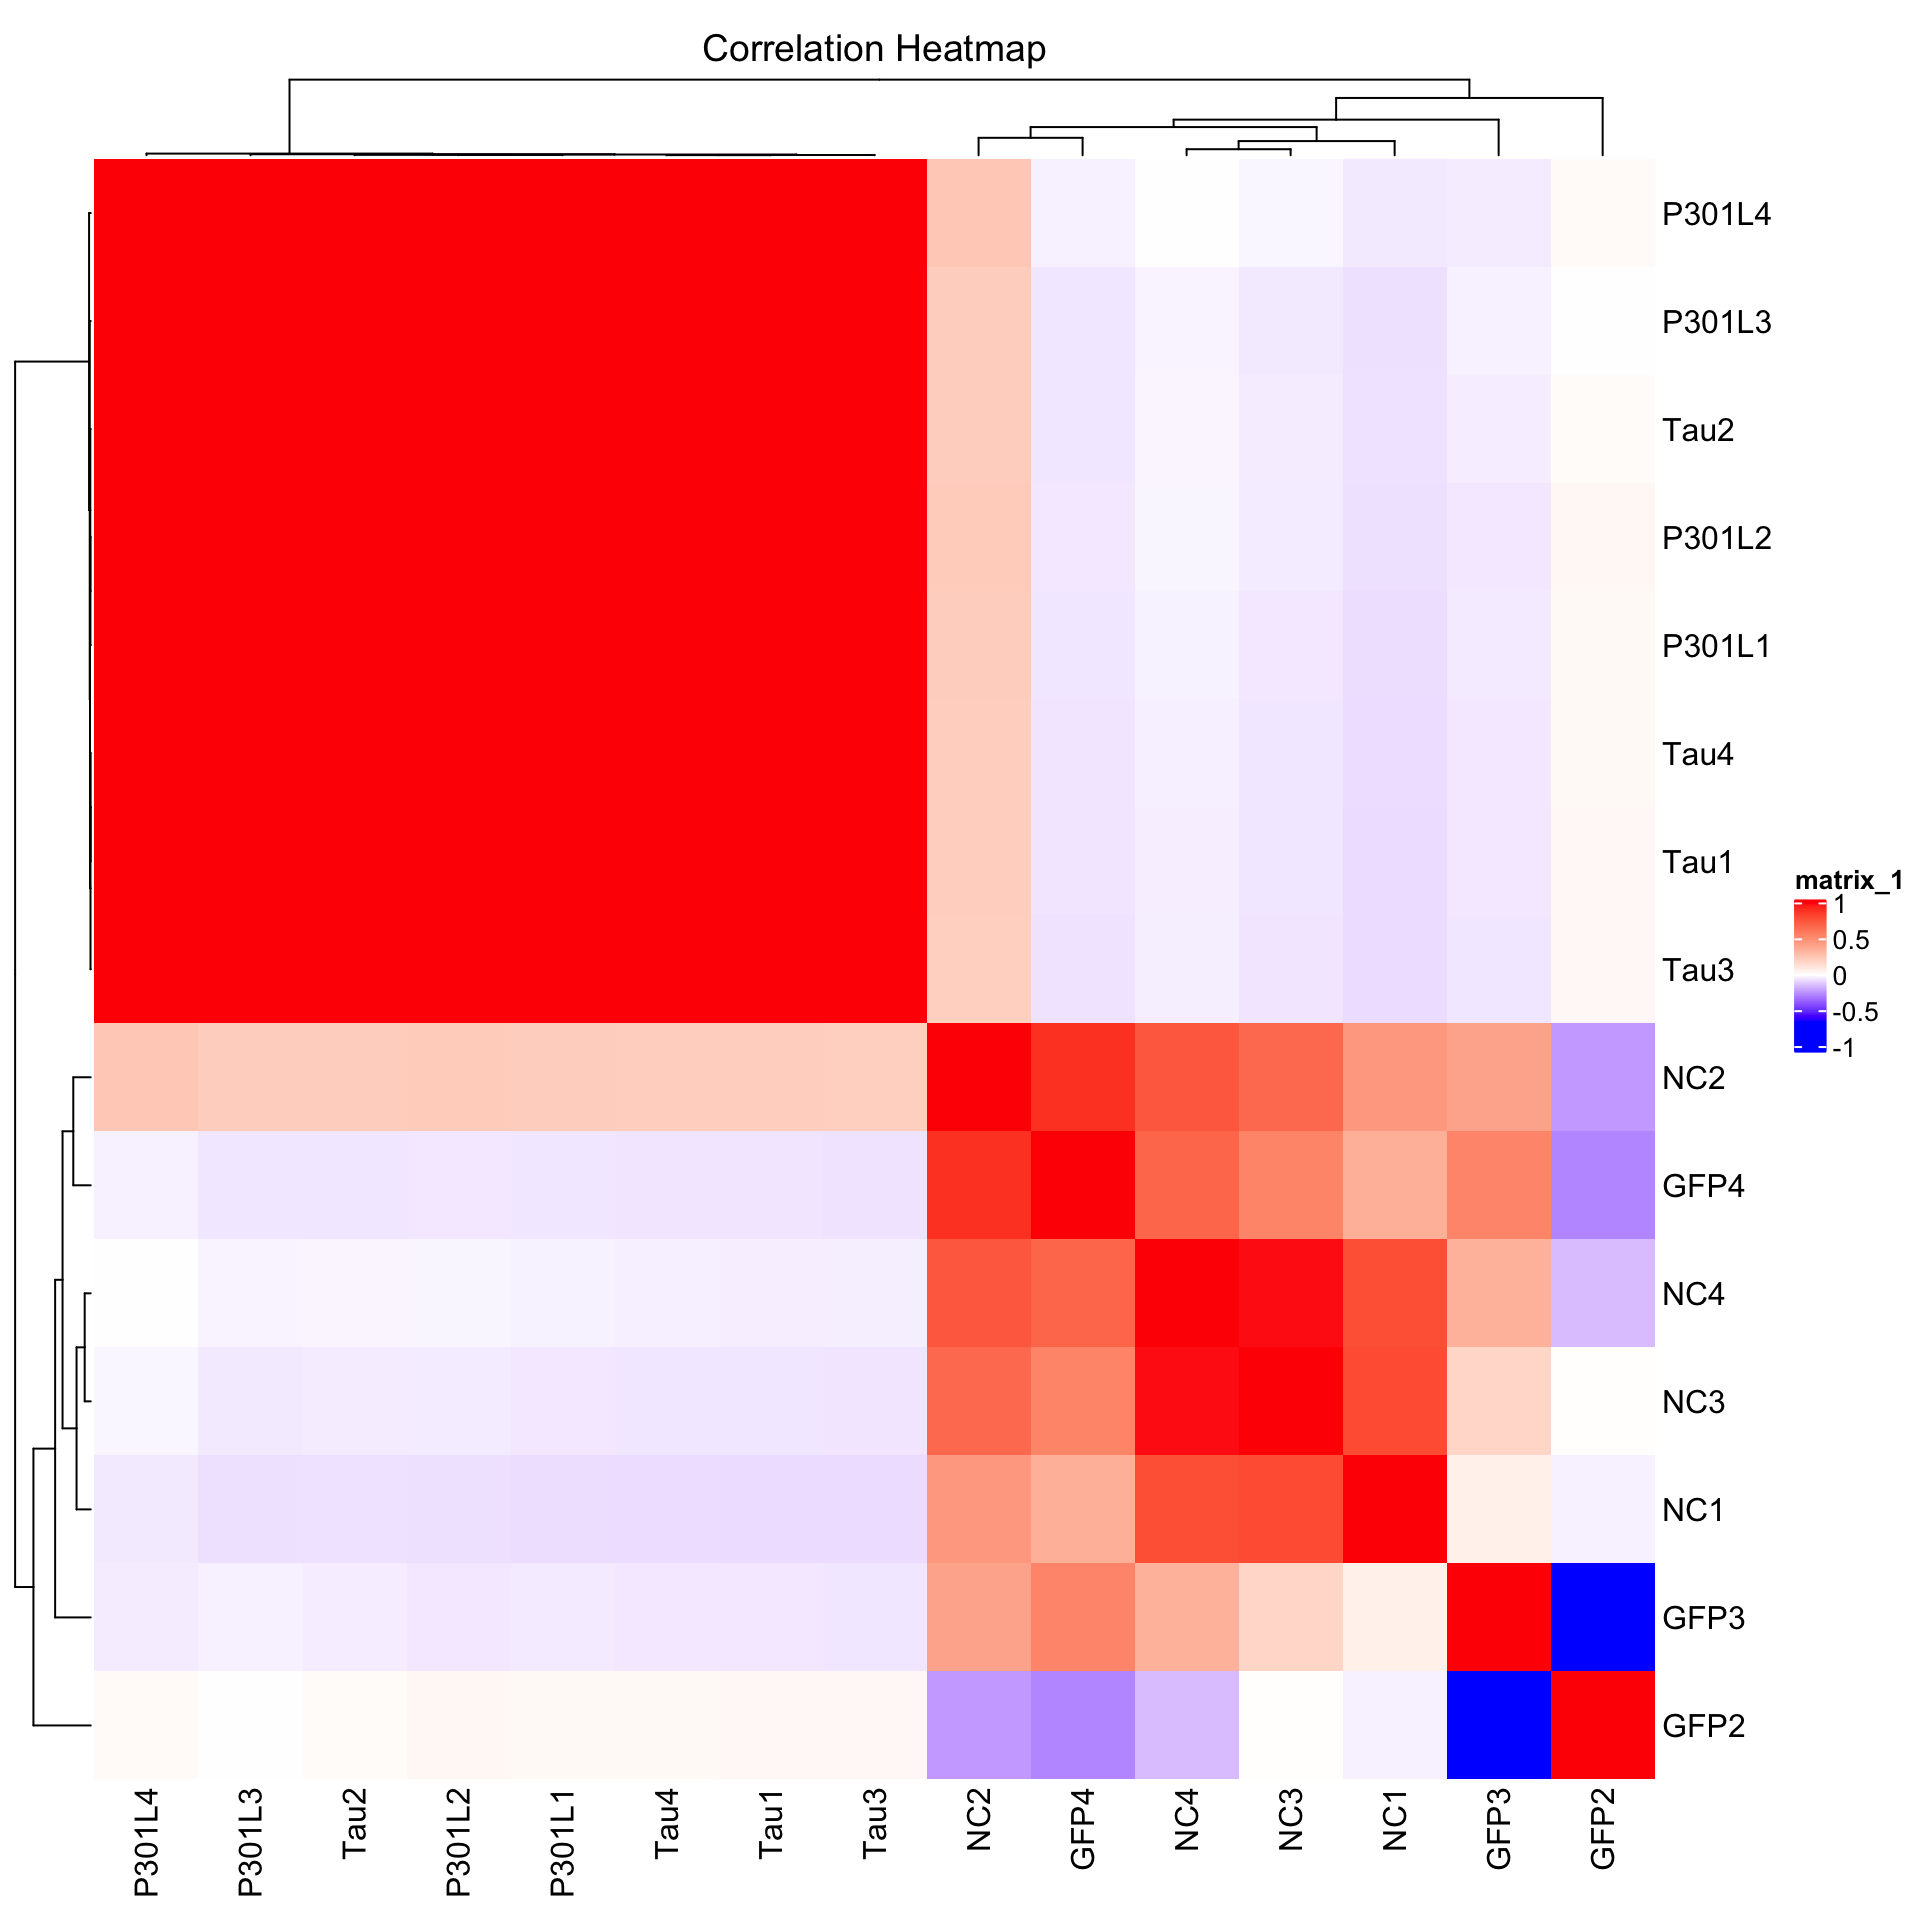
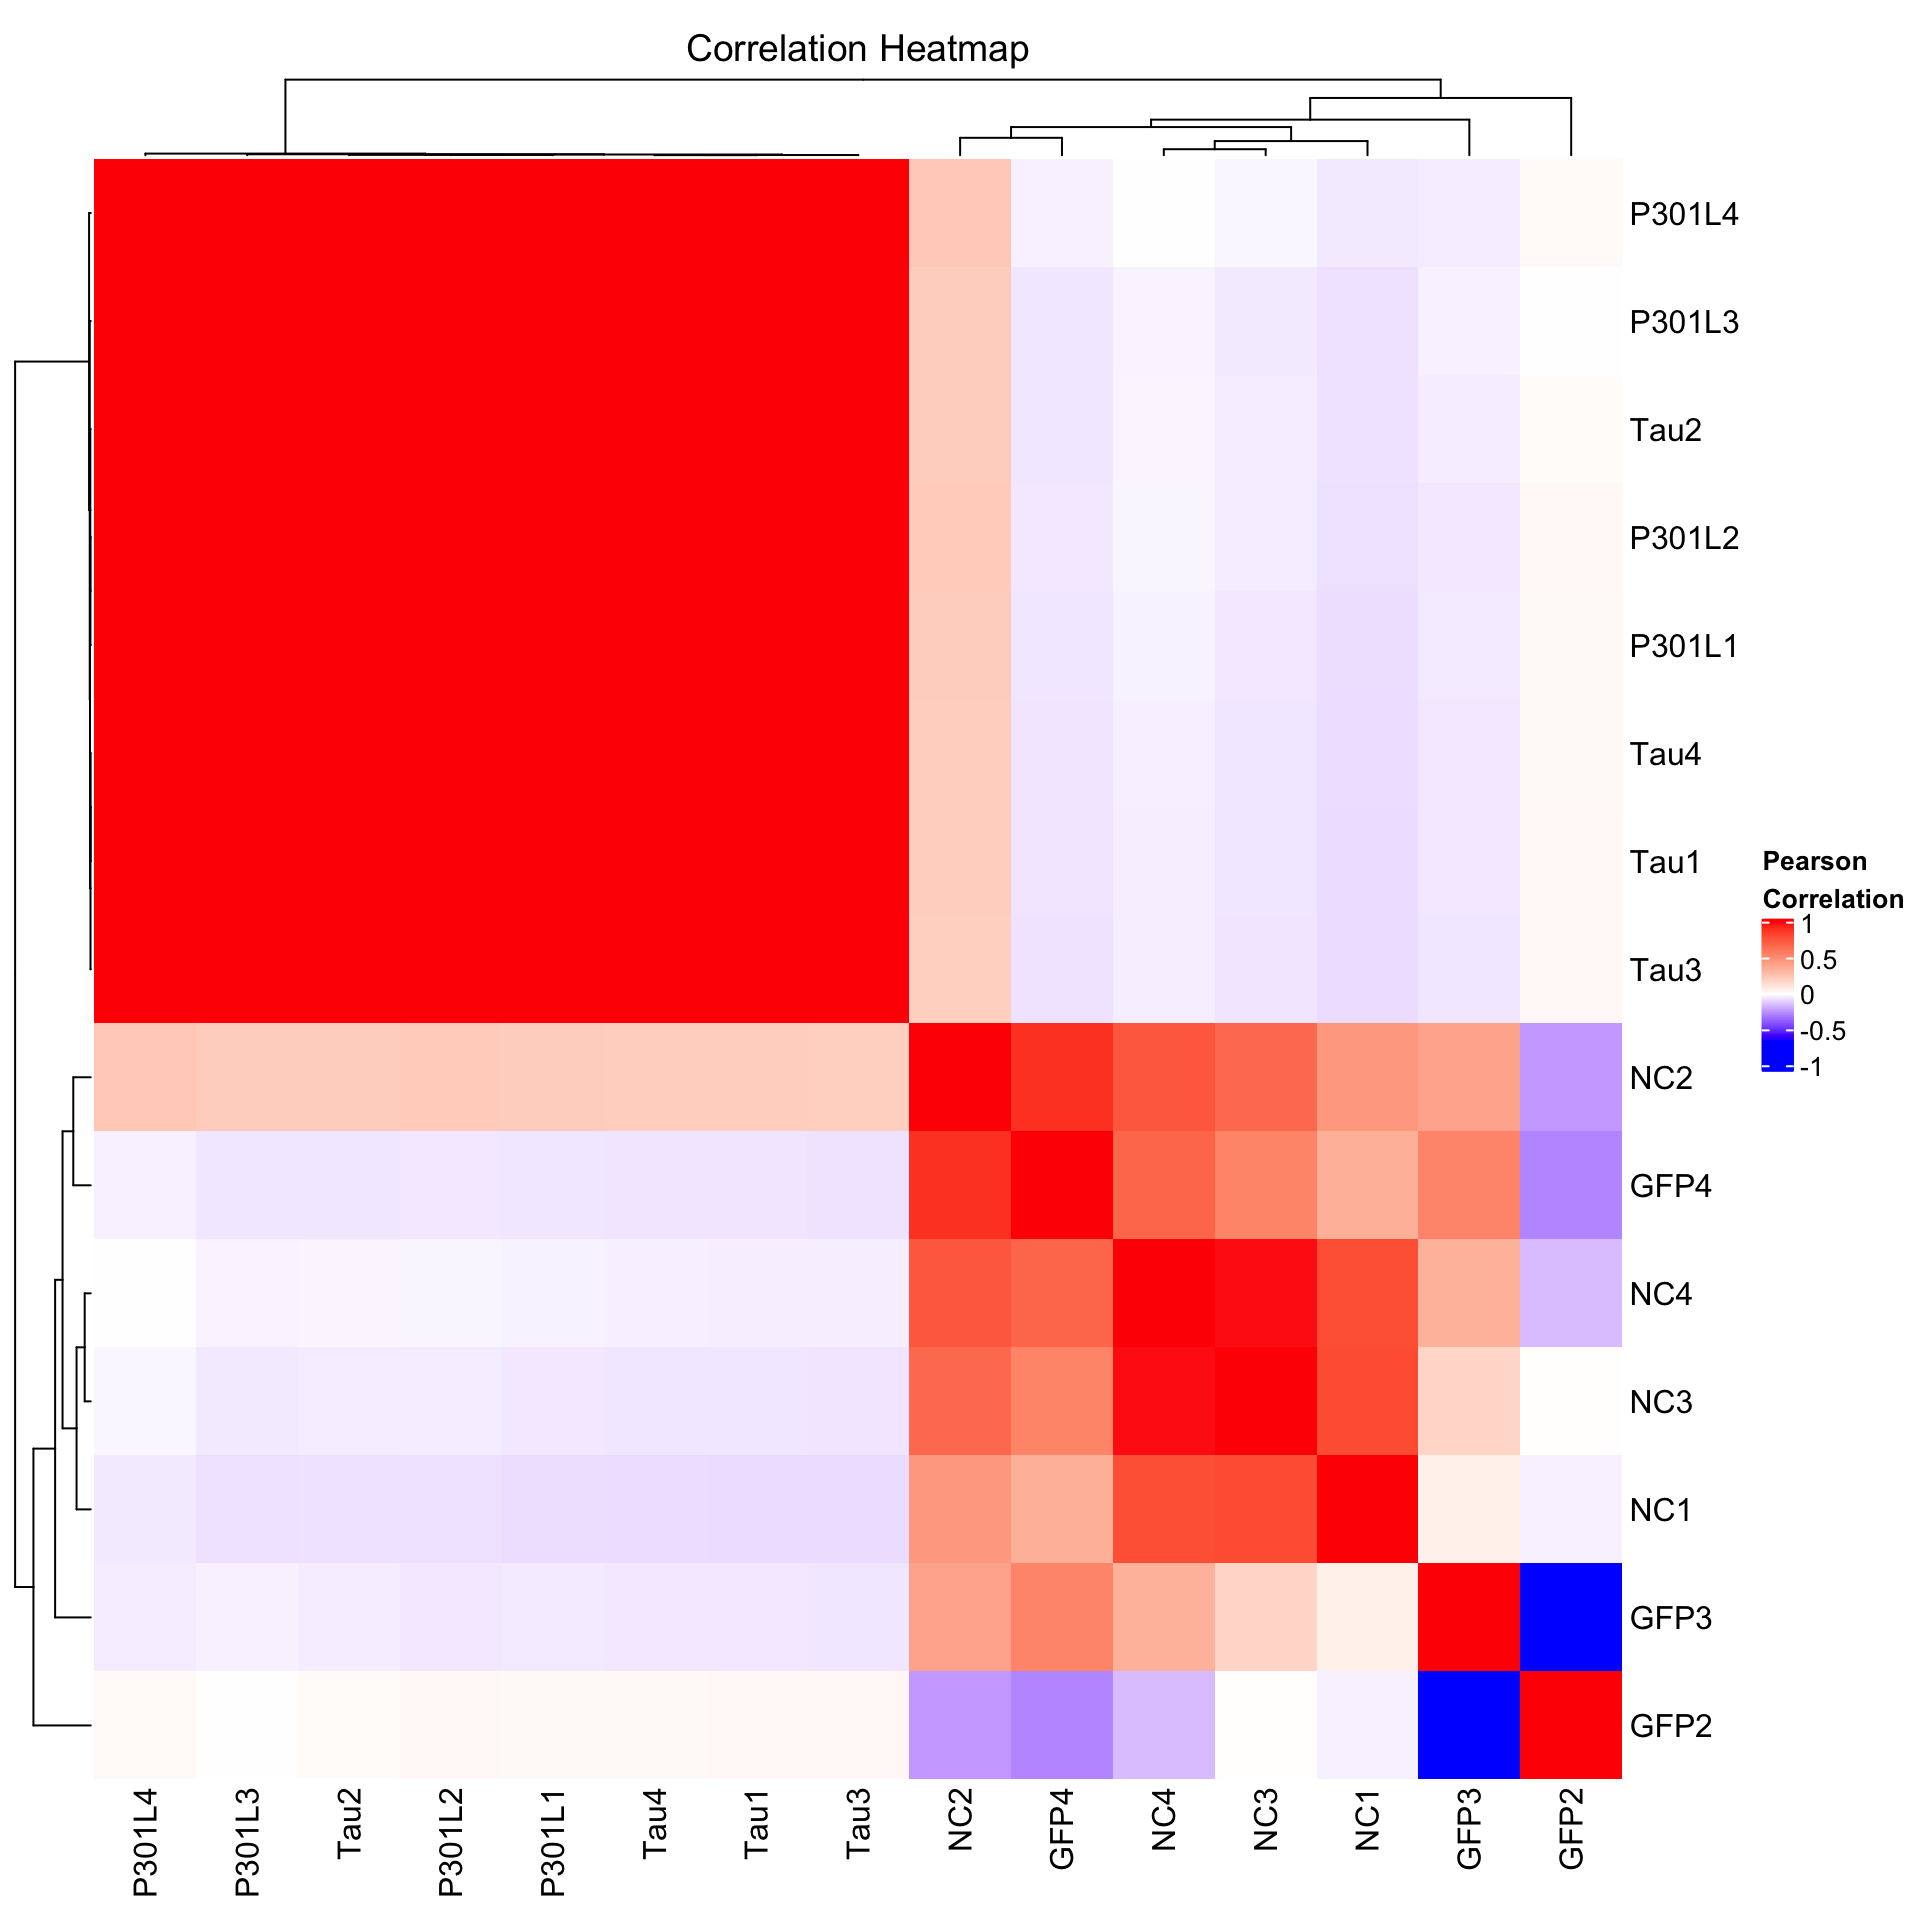
Build site.

diff --git a/docs/qc_210225.html b/docs/qc_210225.html
@@ -436,16 +436,16 @@ This reproducible <a href="http://rmarkdown.rstudio.com">R Markdown</a> analysis
 <div class="panel panel-default">
 <div class="panel-heading">
 <p class="panel-title">
-<a data-toggle="collapse" data-parent="#workflowr-checks" href="#strongRepositoryversionstrongahrefhttpsgithubcomBuilderPiedataQCtree228b615da97b2215c12eaeacc510e2cc470cbceetargetblank228b615a"> <span class="glyphicon glyphicon-ok text-success" aria-hidden="true"></span> <strong>Repository version:</strong> <a href="https://github.com/BuilderPie/data_QC/tree/228b615da97b2215c12eaeacc510e2cc470cbcee" target="_blank">228b615</a> </a>
+<a data-toggle="collapse" data-parent="#workflowr-checks" href="#strongRepositoryversionstrongahrefhttpsgithubcomBuilderPiedataQCtree1ee7e111181df0c085b0c7b795de0dccb300dd7ftargetblank1ee7e11a"> <span class="glyphicon glyphicon-ok text-success" aria-hidden="true"></span> <strong>Repository version:</strong> <a href="https://github.com/BuilderPie/data_QC/tree/1ee7e111181df0c085b0c7b795de0dccb300dd7f" target="_blank">1ee7e11</a> </a>
 </p>
 </div>
[2 lines of base64/hex data omitted]
 <div class="panel-body">
 <p>
 Great! You are using Git for version control. Tracking code development and connecting the code version to the results is critical for reproducibility.
 </p>
 <p>
-The results in this page were generated with repository version <a href="https://github.com/BuilderPie/data_QC/tree/228b615da97b2215c12eaeacc510e2cc470cbcee" target="_blank">228b615</a>. See the <em>Past versions</em> tab to see a history of the changes made to the R Markdown and HTML files.
+The results in this page were generated with repository version <a href="https://github.com/BuilderPie/data_QC/tree/1ee7e111181df0c085b0c7b795de0dccb300dd7f" target="_blank">1ee7e11</a>. See the <em>Past versions</em> tab to see a history of the changes made to the R Markdown and HTML files.
 </p>
 <p>
 Note that you need to be careful to ensure that all relevant files for the analysis have been committed to Git prior to generating the results (you can use <code>wflow_publish</code> or <code>wflow_git_commit</code>). workflowr only checks the R Markdown file, but you know if there are other scripts or data files that it depends on. Below is the status of the Git repository when the results were generated:
@@ -489,6 +489,40 @@ Message
 </tr>
 </thead>
 <tbody>
+<tr>
+<td>
+Rmd
+</td>
+<td>
+<a href="https://github.com/BuilderPie/data_QC/blob/1ee7e111181df0c085b0c7b795de0dccb300dd7f/analysis/qc_210225.Rmd" target="_blank">1ee7e11</a>
+</td>
+<td>
+BuilderPie
+</td>
+<td>
+2021-02-25
+</td>
+<td>
+Publish the initial files for myproject
+</td>
+</tr>
+<tr>
+<td>
+html
+</td>
+<td>
+<a href="https://rawcdn.githack.com/BuilderPie/data_QC/327ea6ee96f568e41c19273494ba3d5aa2daa3f4/docs/qc_210225.html" target="_blank">327ea6e</a>
+</td>
+<td>
+BuilderPie
+</td>
+<td>
+2021-02-25
+</td>
+<td>
+Build site.
+</td>
+</tr>
 <tr>
 <td>
 Rmd
@@ -583,7 +617,8 @@ head(df)</code></pre>
 print(Heatmap(cor_res, 
               col = colorRamp2(c(min(cor_res, na.rm = T), 0, c(max(cor_res, na.rm = T))), c(&quot;blue&quot;, &quot;white&quot;, &quot;red&quot;)),
               na_col = &quot;black&quot;,
-              column_title = paste0(&quot;Correlation Heatmap&quot;)))</code></pre>
+              column_title = paste0(&quot;Correlation Heatmap&quot;),
+              heatmap_legend_param = list(title = &quot;Pearson\nCorrelation&quot;)))</code></pre>
 <p><img src="figure/qc_210225.Rmd/unnamed-chunk-2-1.png" width="960" style="display: block; margin: auto;" /></p>
 <p>
 <button type="button" class="btn btn-default btn-xs btn-workflowr btn-workflowr-fig" data-toggle="collapse" data-target="#fig-unnamed-chunk-2-1">
@@ -609,6 +644,17 @@ Date
 <tbody>
 <tr>
 <td>
+<a href="https://github.com/BuilderPie/data_QC/blob/327ea6ee96f568e41c19273494ba3d5aa2daa3f4/docs/figure/qc_210225.Rmd/unnamed-chunk-2-1.png" target="_blank">327ea6e</a>
+</td>
+<td>
+BuilderPie
+</td>
+<td>
+2021-02-25
+</td>
+</tr>
+<tr>
+<td>
 <a href="https://github.com/BuilderPie/data_QC/blob/9f194a591d46eb944015a7f4416fdf0182de35c5/docs/figure/qc_210225.Rmd/unnamed-chunk-2-1.png" target="_blank">9f194a5</a>
 </td>
 <td>
@@ -626,8 +672,46 @@ BuilderPie
 print(Heatmap(cor_res, 
               col = colorRamp2(c(min(cor_res, na.rm = T), 0, c(max(cor_res, na.rm = T))), c(&quot;blue&quot;, &quot;white&quot;, &quot;red&quot;)),
               na_col = &quot;black&quot;,
-              column_title = paste0(&quot;Correlation Heatmap&quot;)))</code></pre>
+              column_title = paste0(&quot;Correlation Heatmap&quot;),
+              heatmap_legend_param = list(title = &quot;Pearson\nCorrelation&quot;)))</code></pre>
 <p><img src="figure/qc_210225.Rmd/unnamed-chunk-2-2.png" width="960" style="display: block; margin: auto;" /></p>
+<p>
+<button type="button" class="btn btn-default btn-xs btn-workflowr btn-workflowr-fig" data-toggle="collapse" data-target="#fig-unnamed-chunk-2-2">
+Past versions of unnamed-chunk-2-2.png
+</button>
+</p>
+<div id="fig-unnamed-chunk-2-2" class="collapse">
+<div class="table-responsive">
+<table class="table table-condensed table-hover">
+<thead>
+<tr>
+<th>
+Version
+</th>
+<th>
+Author
+</th>
+<th>
+Date
+</th>
+</tr>
+</thead>
+<tbody>
+<tr>
+<td>
+<a href="https://github.com/BuilderPie/data_QC/blob/327ea6ee96f568e41c19273494ba3d5aa2daa3f4/docs/figure/qc_210225.Rmd/unnamed-chunk-2-2.png" target="_blank">327ea6e</a>
+</td>
+<td>
+BuilderPie
+</td>
+<td>
+2021-02-25
+</td>
+</tr>
+</tbody>
+</table>
+</div>
+</div>
 <br>
 <p>
 <button type="button" class="btn btn-default btn-workflowr btn-workflowr-sessioninfo" data-toggle="collapse" data-target="#workflowr-sessioninfo" style="display: block;">

diff --git a/docs/index.html b/docs/index.html
@@ -370,16 +370,16 @@ This reproducible <a href="http://rmarkdown.rstudio.com">R Markdown</a> analysis
 <div class="panel panel-default">
 <div class="panel-heading">
 <p class="panel-title">
-<a data-toggle="collapse" data-parent="#workflowr-checks" href="#strongRepositoryversionstrongahrefhttpsgithubcomBuilderPiedataQCtree228b615da97b2215c12eaeacc510e2cc470cbceetargetblank228b615a"> <span class="glyphicon glyphicon-ok text-success" aria-hidden="true"></span> <strong>Repository version:</strong> <a href="https://github.com/BuilderPie/data_QC/tree/228b615da97b2215c12eaeacc510e2cc470cbcee" target="_blank">228b615</a> </a>
+<a data-toggle="collapse" data-parent="#workflowr-checks" href="#strongRepositoryversionstrongahrefhttpsgithubcomBuilderPiedataQCtree1ee7e111181df0c085b0c7b795de0dccb300dd7ftargetblank1ee7e11a"> <span class="glyphicon glyphicon-ok text-success" aria-hidden="true"></span> <strong>Repository version:</strong> <a href="https://github.com/BuilderPie/data_QC/tree/1ee7e111181df0c085b0c7b795de0dccb300dd7f" target="_blank">1ee7e11</a> </a>
 </p>
 </div>
[2 lines of base64/hex data omitted]
 <div class="panel-body">
 <p>
 Great! You are using Git for version control. Tracking code development and connecting the code version to the results is critical for reproducibility.
 </p>
 <p>
-The results in this page were generated with repository version <a href="https://github.com/BuilderPie/data_QC/tree/228b615da97b2215c12eaeacc510e2cc470cbcee" target="_blank">228b615</a>. See the <em>Past versions</em> tab to see a history of the changes made to the R Markdown and HTML files.
+The results in this page were generated with repository version <a href="https://github.com/BuilderPie/data_QC/tree/1ee7e111181df0c085b0c7b795de0dccb300dd7f" target="_blank">1ee7e11</a>. See the <em>Past versions</em> tab to see a history of the changes made to the R Markdown and HTML files.
 </p>
 <p>
 Note that you need to be careful to ensure that all relevant files for the analysis have been committed to Git prior to generating the results (you can use <code>wflow_publish</code> or <code>wflow_git_commit</code>). workflowr only checks the R Markdown file, but you know if there are other scripts or data files that it depends on. Below is the status of the Git repository when the results were generated:
@@ -423,6 +423,23 @@ Message
 </tr>
 </thead>
 <tbody>
+<tr>
+<td>
+html
+</td>
+<td>
+<a href="https://rawcdn.githack.com/BuilderPie/data_QC/327ea6ee96f568e41c19273494ba3d5aa2daa3f4/docs/index.html" target="_blank">327ea6e</a>
+</td>
+<td>
+BuilderPie
+</td>
+<td>
+2021-02-25
+</td>
+<td>
+Build site.
+</td>
+</tr>
 <tr>
 <td>
 html
